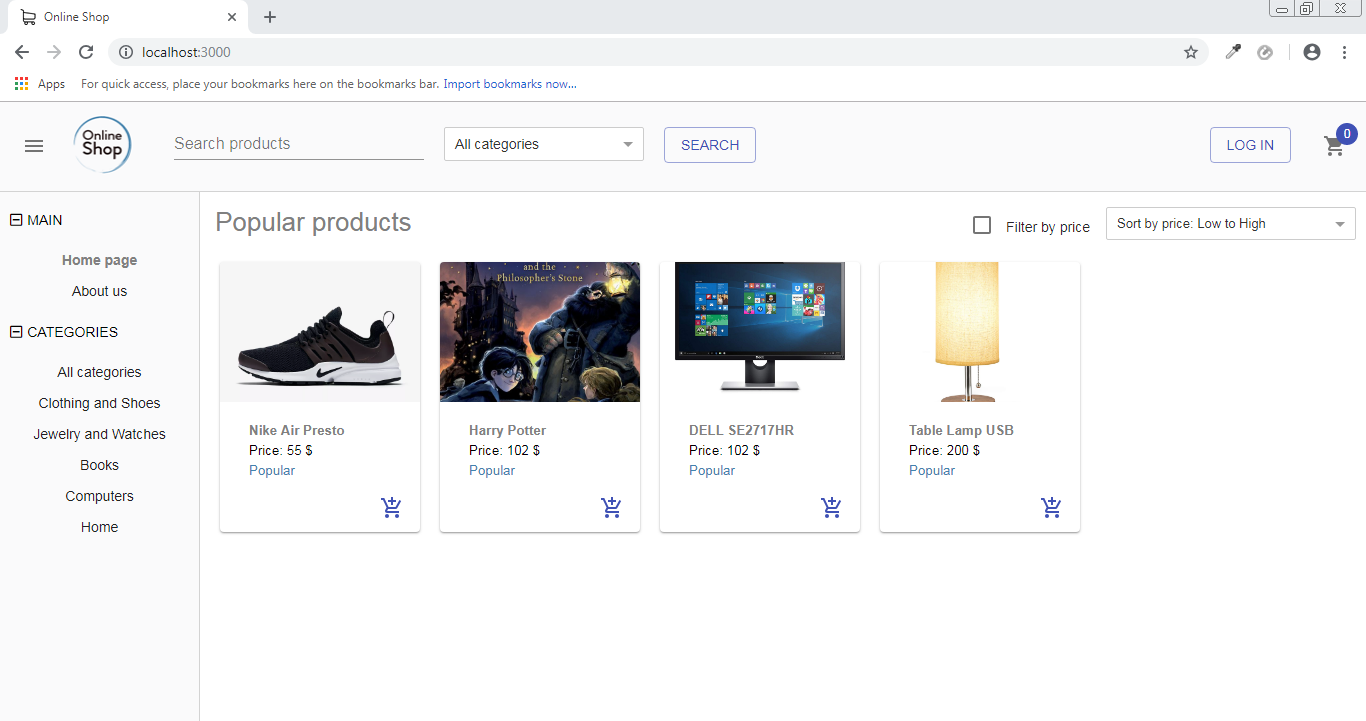
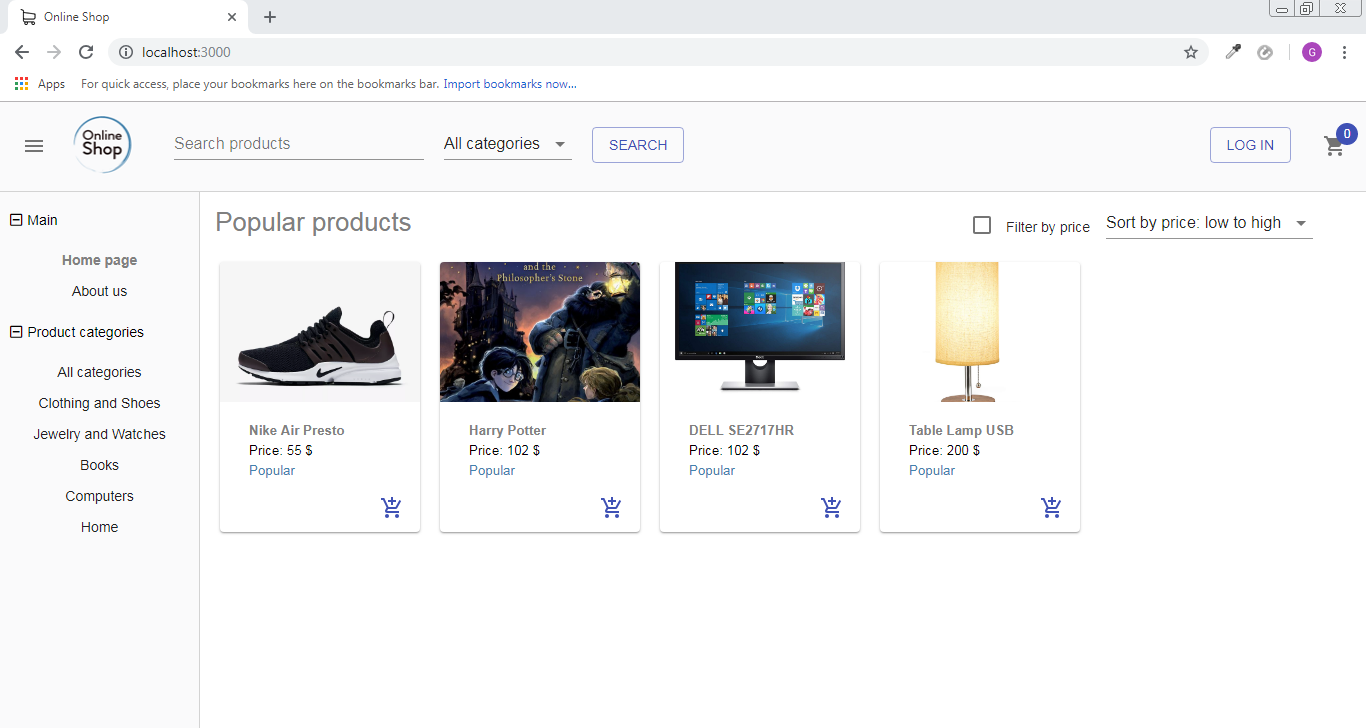
Change select component, use the one from react material

diff --git a/src/Components/Header/Header.js b/src/Components/Header/Header.js
@@ -9,8 +9,6 @@ import Button from '@material-ui/core/Button';
 import { withRouter } from "react-router-dom";
 import { connect } from "react-redux";
 import { showCartDlg, toggleMenu, setLoggedInUser } from "../../Redux/Actions"
-import Dropdown from 'react-dropdown'
-import 'react-dropdown/style.css'
 import cartImage from "../../Images/logo2.png"
 import Auth from "../../Auth"
 import { categoryNames } from "../../Data"
@@ -18,6 +16,7 @@ import Person from '@material-ui/icons/PersonOutline';
 import Avatar from '@material-ui/core/Avatar';
 import Menu from '@material-ui/core/Menu';
 import MenuItem from '@material-ui/core/MenuItem';
+import Select from '@material-ui/core/Select';
 
 
 const mapStateToProps = state => {
@@ -25,14 +24,15 @@ const mapStateToProps = state => {
 };
 
 const categoryOptions = categoryNames.map(x => {
-    return { value: x, label: x }
+    return <MenuItem value={x}>{x}</MenuItem>
+
 })
 
 class ConnectedHeader extends Component {
     state = {
         searchTerm: "",
         anchorEl: null,
-        categoryFilter: categoryOptions[0]
+        categoryFilter: categoryNames[0]
     }
 
     render() {
@@ -58,22 +58,32 @@ class ConnectedHeader extends Component {
                         }}
                         style={{ marginLeft: 40, width: 250, marginTop: 10 }}
                     />
-                    <div style={{ marginTop: 25, marginLeft: 20, width: 200 }}>
-                        <Dropdown
-                            options={categoryOptions}
-                            className='react-dropdown-h'
-                            onChange={(e) => {
-                                this.setState({ categoryFilter: e })
+                    <div style={{ marginTop: 25, marginLeft: 20 }}>
+                       
+                        <Select
+                            style={{ maxWidth: 200, marginTop:1 }}
+                            value={this.state.categoryFilter}
+                            MenuProps={{
+                                style: {
+                                    maxHeight: 500
+                                }
                             }}
-                            value={this.state.categoryFilter} />
+                            onChange={(e) => {
+                                this.setState({ categoryFilter: e.target.value })
+                            }}
+
+                        >
+                            {categoryOptions}
+                        </Select>
                     </div>
 
                     <Button style={{ marginTop: 25, marginLeft: 20, height: 10 }}
                         variant="outlined"
                         color="primary"
+
                         onClick={() => {
                             // Generate new URL to redirect user to 
-                            this.props.history.push('/search/?category=' + this.state.categoryFilter.value + "&term="+ this.state.searchTerm );
+                            this.props.history.push('/search/?category=' + this.state.categoryFilter + "&term=" + this.state.searchTerm);
                         }}> Search</Button>
                 </div>
                 <div className="right-part">
@@ -91,7 +101,7 @@ class ConnectedHeader extends Component {
                         (<Button
                             variant="outlined"
                             color="primary"
-                            style={{ height: 10, marginTop: 25, marginRight:20 }}
+                            style={{ height: 10, marginTop: 25, marginRight: 20 }}
                             onClick={() => {
                                 this.props.history.push('/login');
                             }}>

diff --git a/src/Components/ProductList/ProductList.js b/src/Components/ProductList/ProductList.js
@@ -4,13 +4,18 @@ import Item from "../Item/Item"
 import CircularProgress from '@material-ui/core/CircularProgress';
 import "./ProductList.css"
 import queryString from 'query-string'
-import Dropdown from 'react-dropdown'
 import Api from "../../Api"
 import FormControlLabel from '@material-ui/core/FormControlLabel';
 import Checkbox from '@material-ui/core/Checkbox';
 import Tooltip from '@material-ui/core/Tooltip';
 import PriceDialog from '../PriceDialog/PriceDialog';
 import Paging from "../Paging/Paging"
+import MenuItem from '@material-ui/core/MenuItem';
+import Select from '@material-ui/core/Select';
+
+
+
+const sortOptions = [<MenuItem value={"lh"}>Sort by price: low to high</MenuItem>, <MenuItem value={"hl"}>Sort by price: high to low</MenuItem>]
 
 // This component is responsible for retrieving the products it needs to show.
 // It determines the kind of products it needs to show from query string.
@@ -48,11 +53,7 @@ class ProductList extends Component {
     }
 
     // As noted this component determines which products to load from query string.
-    // This function is used to update the query string with new values, e.g. 
-    // say when user selects new price filter.
-    // In some cases we want to remove element "page" from query string (in which case
-    // this component requests page 1 by default). For this to happen, one must pass
-    // restartPaging as truthy.
+    // This function is used to update the query string with new values.
     updateURLAndRedirect(newValues, restartPaging) {
 
         let currentQs = queryString.parse(this.props.location.search);
@@ -155,13 +156,21 @@ class ProductList extends Component {
                     <div style={{ width: 500, marginTop: 5, display: "flex", flexGrow: 1, flexDirection: "row-reverse" }}>
 
                         <div style={{ width: 250 }}>
-                            <Dropdown
-                                options={[
-                                    { value: 'lh', label: 'Sort by price: Low to High' },
-                                    { value: 'hl', label: 'Sort by price: High to Low' },
-                                ]}
-                                className='react-dropdown'
-                                onChange={this.handleSortChange} value={this.getParamFromProps("sortValue")} />
+                            <Select
+                                style={{ maxWidth: 400 }}
+                                value={this.getParamFromProps("sortValue")}
+                                MenuProps={{
+                                    style: {
+                                        maxHeight: 500
+                                    }
+                                }}
+                                onChange={(e) => {
+                                    this.updateURLAndRedirect({ sortValue: e.target.value })
+                                }}
+
+                            >
+                                {sortOptions}
+                            </Select>
                         </div>
 
                         {this.getParamFromProps("usePriceFilter") &&
@@ -191,7 +200,7 @@ class ProductList extends Component {
                     </div>
                 </div>
                 <div style={{ flex: 1, display: "flex", flexDirection: "column" }}>
-                    <div style={{   flex: 1 }}>
+                    <div style={{ flex: 1 }}>
                         {this.state.unfinishedTasks !== 0 ?
                             <CircularProgress className="circular" /> :
                             this.state.items.map(item => {

diff --git a/src/Components/Menu/Menu.js b/src/Components/Menu/Menu.js
@@ -14,10 +14,10 @@ const mapStateToProps = state => {
 // Generates menu data. Some menu items are hardcoded, some derived from categories.
 const generateMenuModel = (categories) => {
     let menuModel = [
-        { type: "title", name: "MAIN", id: 0 },
+        { type: "title", name: "Main", id: 0 },
         { type: "item", name: "Home page", url: "/", parentID: 0, id: 1 },
         { type: "item", name: "About us", url: "/about", parentID: 0, id: 2 },
-        { type: "title", name: "CATEGORIES", id: 3 },
+        { type: "title", name: "Product categories", id: 3 },
     ];
 
     menuModel = menuModel.concat(categories.map((x, i) => {

diff --git a/src/Data.js b/src/Data.js
@@ -116,7 +116,6 @@ const sampleProducts = [
 ];
 
 // Extract list of categories from products.
-const categoryNames = ["All categories", ...sampleProducts.map(x => x.category).filter((value, index, self) => self.indexOf(value) === index)]
-
-
-export { sampleProducts, categoryNames }
+const categoryNames  = ["All categories", ...sampleProducts.map(x => x.category).filter((value, index, self) => self.indexOf(value) === index)]
+ 
+ export { sampleProducts, categoryNames }
